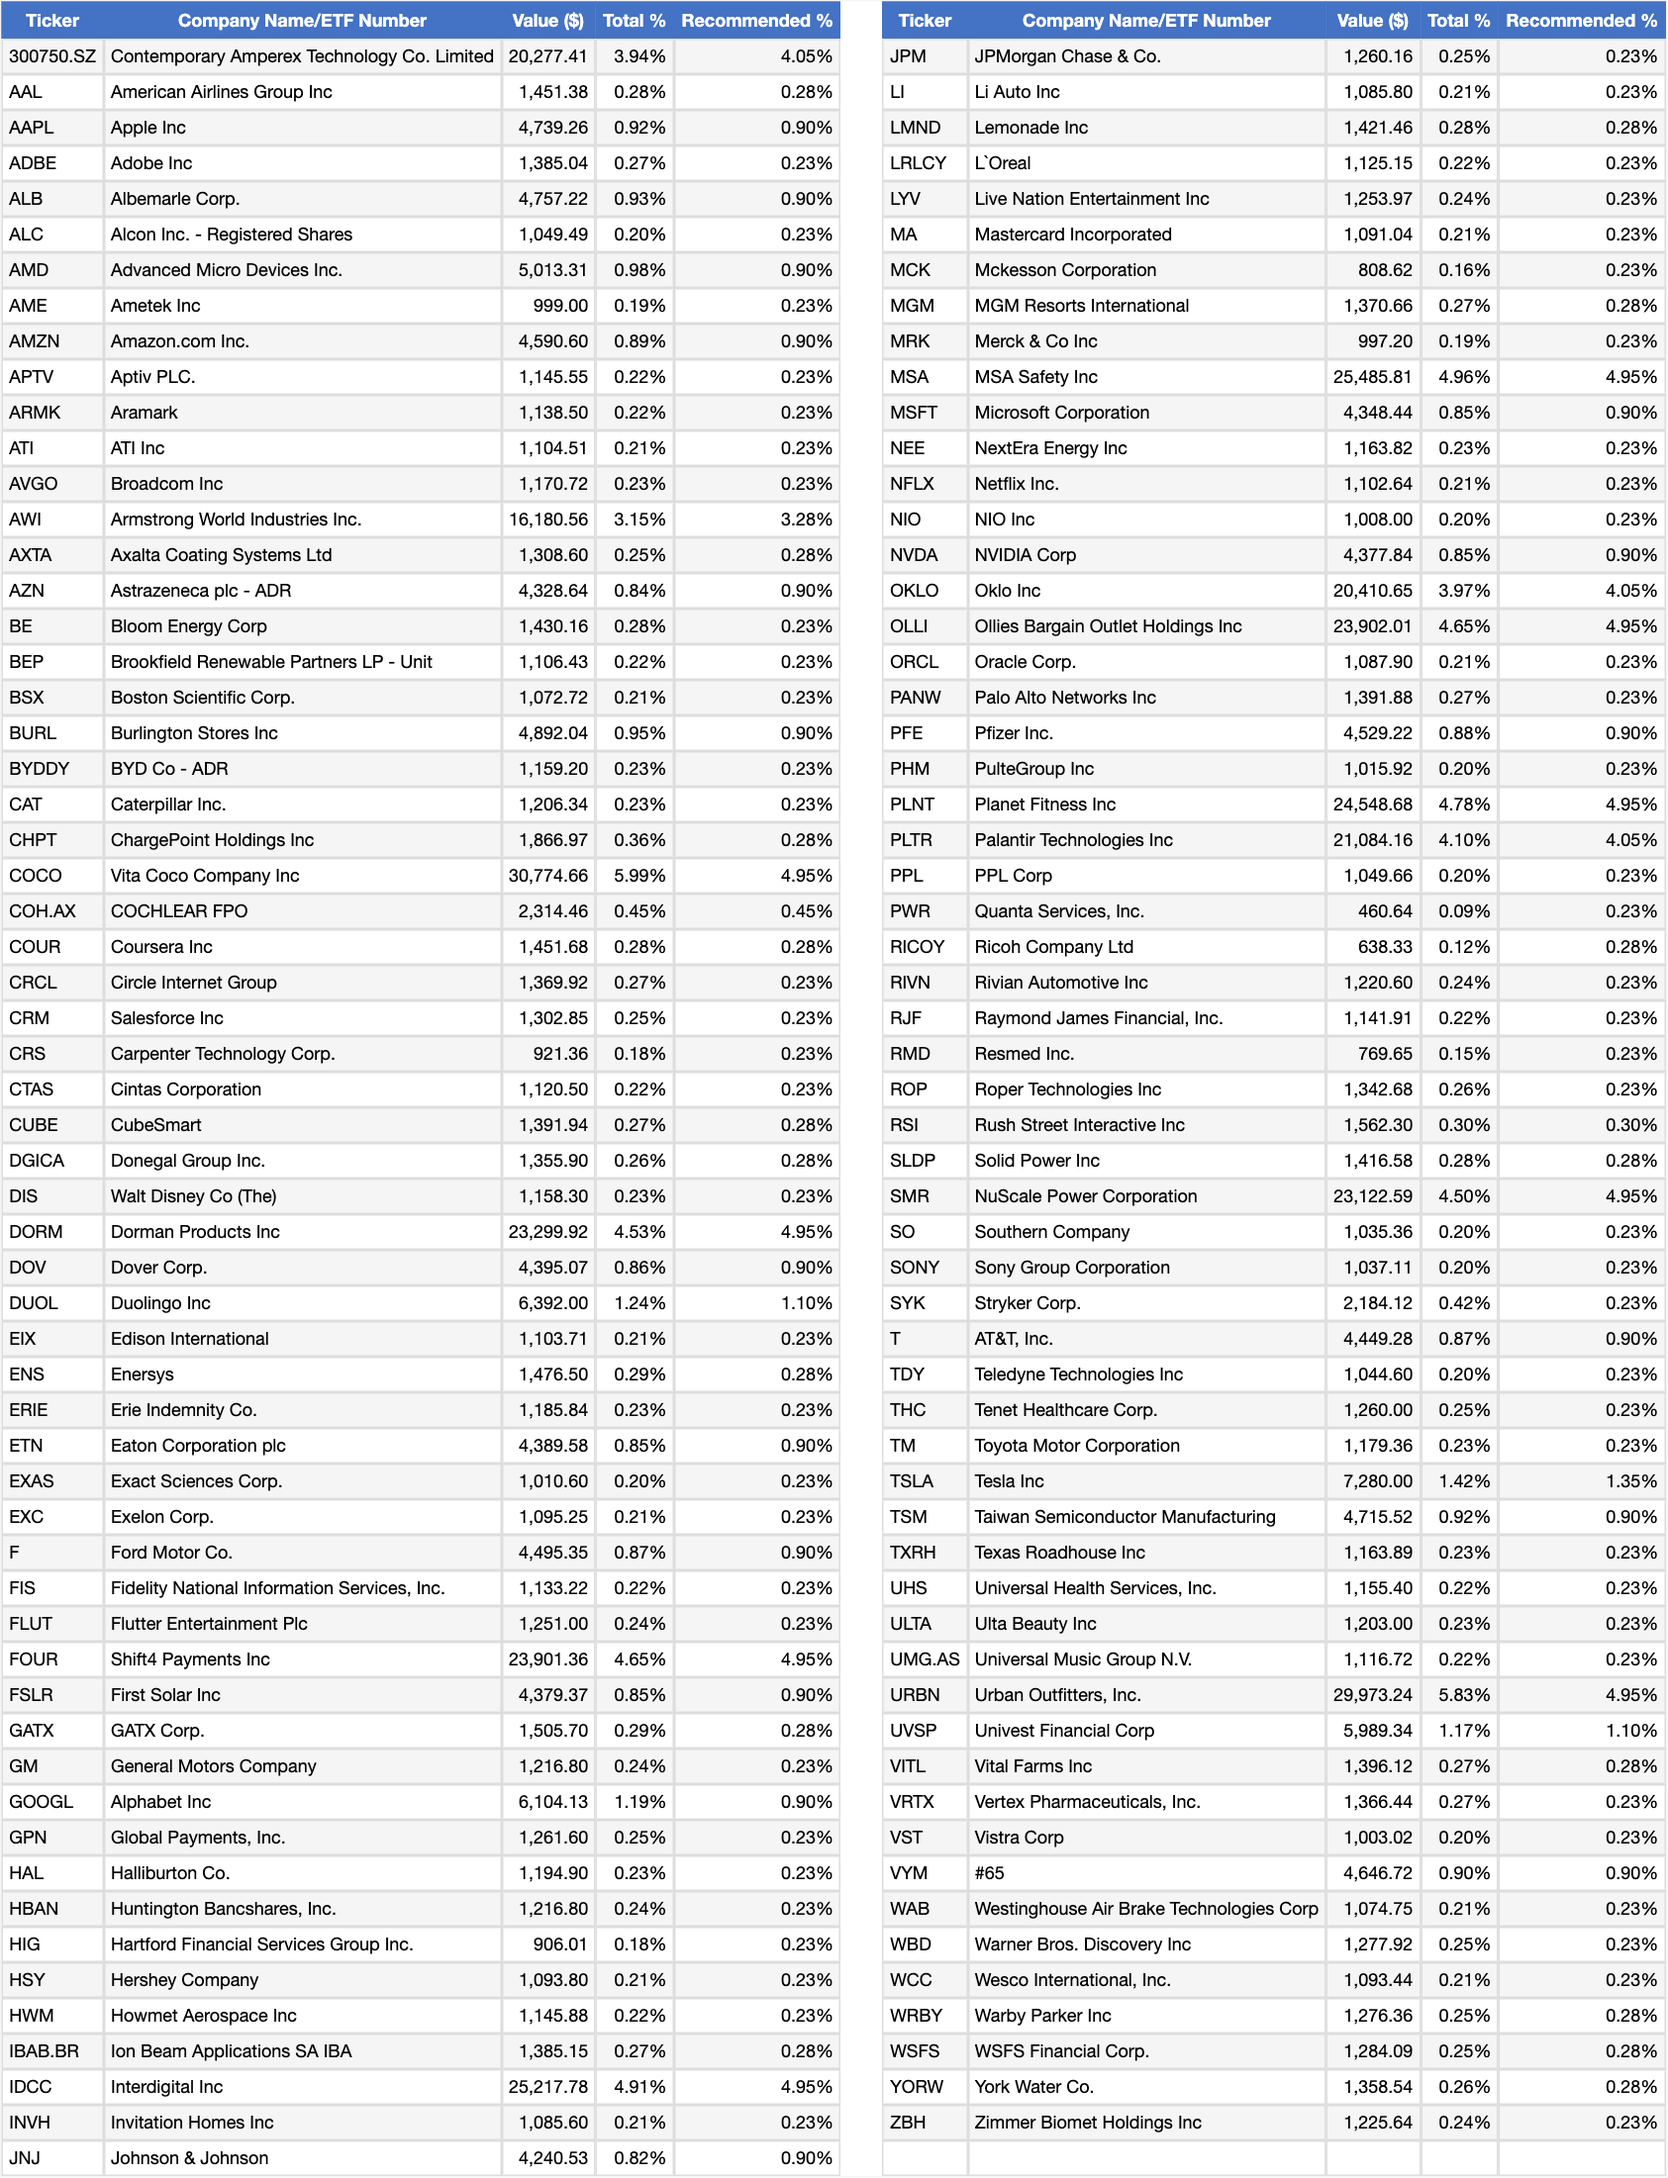
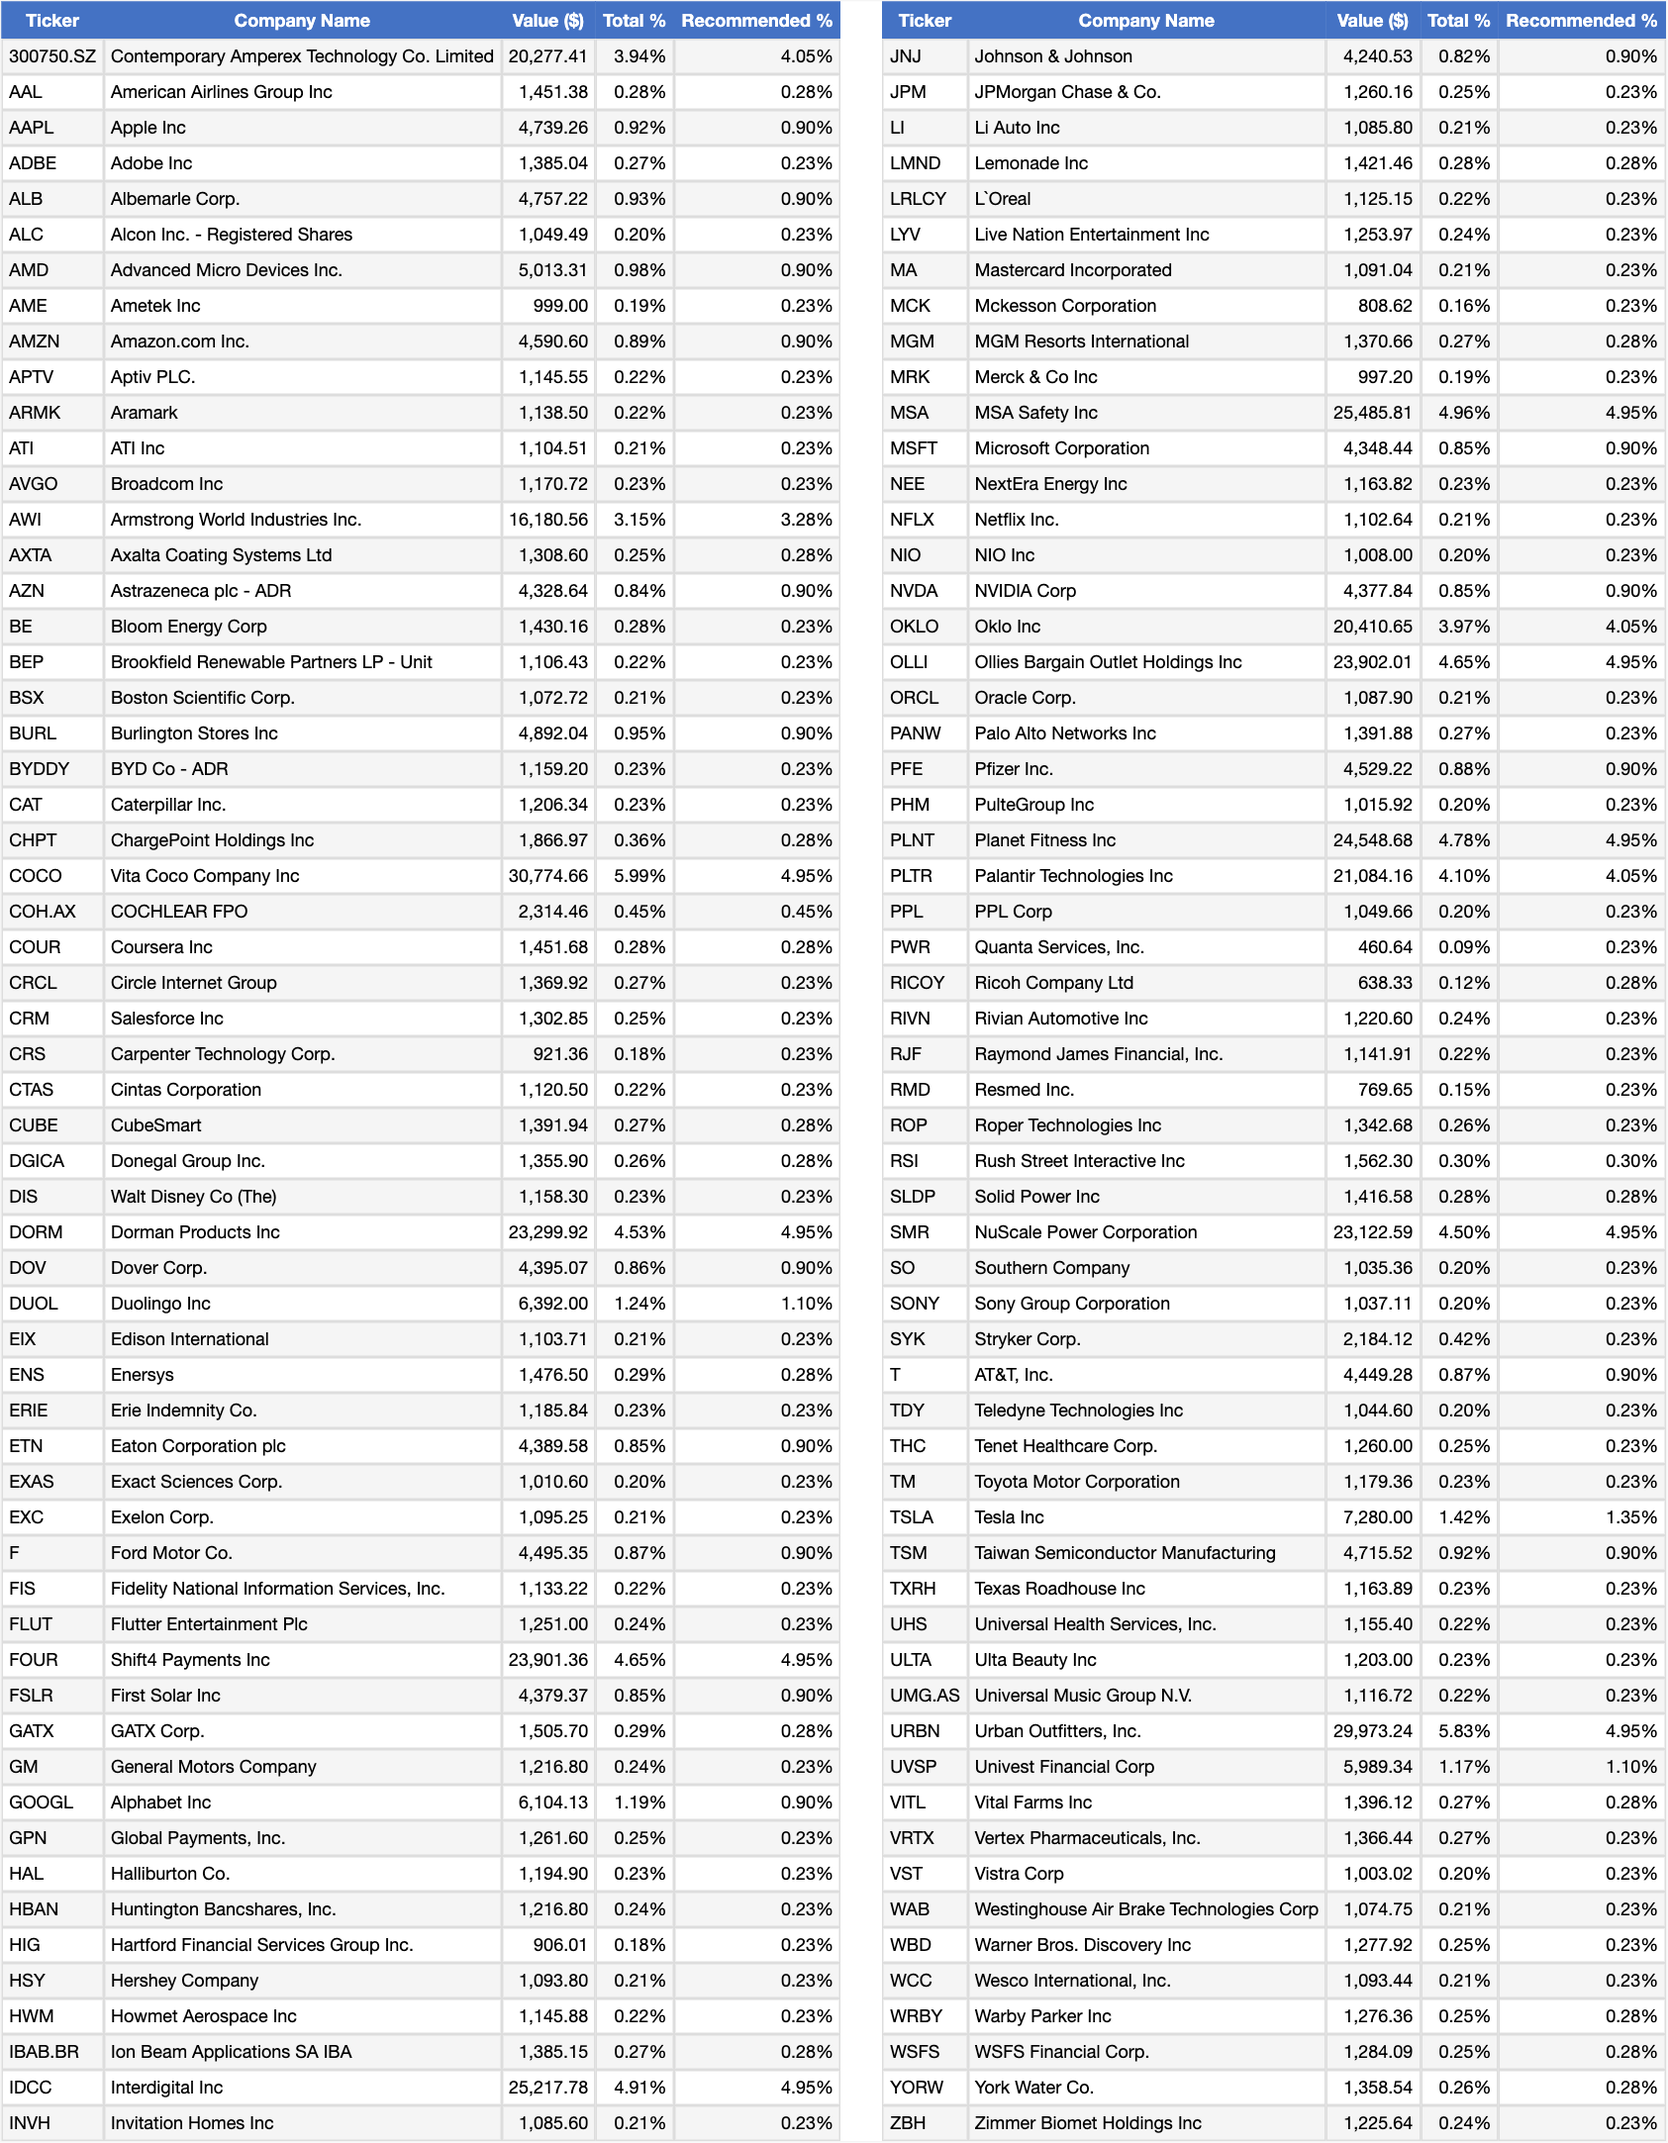
table changes + new tables

diff --git a/final-images/create_metrics_table.py b/final-images/create_metrics_table.py
@@ -1,0 +1,65 @@
+import pandas as pd
+import dataframe_image as dfi
+
+def create_metrics_table(data, output_image='metrics_table.png'):
+    """
+    Creates a metrics comparison table from a dictionary or DataFrame.
+    
+    Args:
+        data: Dictionary with metric names as keys and lists of values, 
+              or a pandas DataFrame with metrics as rows
+        output_image: Path for output PNG image
+    """
+    # Convert data to DataFrame if it's a dictionary
+    if isinstance(data, dict):
+        df = pd.DataFrame(data)
+    else:
+        df = data.copy()
+    
+    # Style the dataframe
+    styles = [
+        {'selector': 'th', 'props': [
+            ('background-color', '#4472C4'),
+            ('color', 'white'),
+            ('font-weight', 'bold'),
+            ('text-align', 'center'),
+            ('font-size', '11pt'),
+            ('border', '1px solid #4472C4'),
+            ('padding', '8px 12px')
+        ]},
+        {'selector': 'td', 'props': [
+            ('border', '1px solid #ddd'),
+            ('padding', '8px 12px'),
+            ('text-align', 'center'),
+            ('font-size', '11pt')
+        ]},
+        {'selector': '', 'props': [
+            ('border-collapse', 'separate'),
+            ('border-spacing', '0')
+        ]},
+        # Left-align the first column (Metric names)
+        {'selector': 'td:nth-child(1)', 'props': [
+            ('text-align', 'left'),
+            ('font-weight', '500')
+        ]}
+    ]
+    
+    styled = df.style.hide(axis='index').set_table_styles(styles)
+    
+    # Export the image with higher DPI for better quality
+    dfi.export(styled, output_image, max_cols=-1, max_rows=-1, dpi=150)
+    
+    print(f"✓ {output_image} created")
+    print(f"  Rows: {len(df)}")
+    print(f"  Columns: {len(df.columns)}")
+
+if __name__ == "__main__":
+    # Example data matching the user's request
+    data = {
+        'Metric': ['CAGR', 'Sharpe Ratio'],
+        'Mean (10k Sims)': ['39.18%', '1.56'],
+        '10th Percentile Sim': ['24.81%', '0.98'],
+        'S&P': ['14.84%', '0.88']
+    }
+    
+    create_metrics_table(data, "metrics_comparison.png")

diff --git a/final-images/etf-table.py b/final-images/etf-table.py
@@ -1,0 +1,67 @@
+import pandas as pd
+import dataframe_image as dfi
+
+def create_single_column_table(input_csv, output_image='etf_table_output.png'):
+    """
+    Reads a CSV file and creates a single-column table image (no split).
+    
+    Args:
+        input_csv: Path to input CSV file
+        output_image: Path for output PNG image
+    """
+    # Read the CSV
+    df = pd.read_csv(input_csv)
+    
+    total_rows = len(df)
+    
+    # Identify numeric columns for right alignment
+    def get_right_align_selectors(dataframe):
+        selectors = []
+        for idx, col in enumerate(dataframe.columns, start=1):
+            if any(keyword in col for keyword in ['Value', '%', 'Percent', 'Total']):
+                selectors.append(f'td:nth-child({idx})')
+        return selectors
+    
+    # Style the dataframe
+    right_align_selectors = get_right_align_selectors(df)
+    
+    styles = [
+        {'selector': 'th', 'props': [
+            ('background-color', '#4472C4'),
+            ('color', 'white'),
+            ('font-weight', 'bold'),
+            ('text-align', 'center'),
+            ('font-size', '9pt'),
+            ('border', '1px solid #4472C4'),
+            ('padding', '4px')
+        ]},
+        {'selector': 'td', 'props': [
+            ('border', '1px solid #ddd'),
+            ('padding', '4px'),
+            ('text-align', 'left')
+        ]},
+        {'selector': '', 'props': [
+            ('border-collapse', 'separate'),
+            ('border-spacing', '0')
+        ]}
+    ]
+    
+    # Add right alignment for numeric columns
+    for selector in right_align_selectors:
+        styles.append({
+            'selector': selector,
+            'props': [('text-align', 'right')]
+        })
+    
+    styled = df.style.hide(axis='index').set_properties(**{
+        'font-size': '9pt'
+    }).set_table_styles(styles)
+    
+    # Export the image
+    dfi.export(styled, output_image, max_cols=-1, max_rows=-1, dpi=150)
+    
+    print(f"✓ {output_image} created")
+    print(f"  Total rows: {total_rows}")
+
+if __name__ == "__main__":
+    create_single_column_table("ETF.csv", "etf_table_output.png")

diff --git a/final-images/create_industry_table.py b/final-images/create_industry_table.py
@@ -169,7 +169,7 @@ def create_industry_table(input_csv, output_image='industry_table.png', max_rows
 if __name__ == "__main__":
     # Example usage:
     # Two-column layout (default) - top 20 industries
-    create_industry_table("Portfolio Allocations - Sheet5.csv", "industry_table_full.png", max_rows=23, two_column_layout=True)
+    create_industry_table("Portfolio Allocations - Sheet5.csv", "industry_table_full.png", two_column_layout=True)
     
     # Single unified column layout - top 20 industries
     # create_industry_table("Portfolio Allocations - Sheet5.csv", "industry_table_single.png", max_rows=20, two_column_layout=False)
